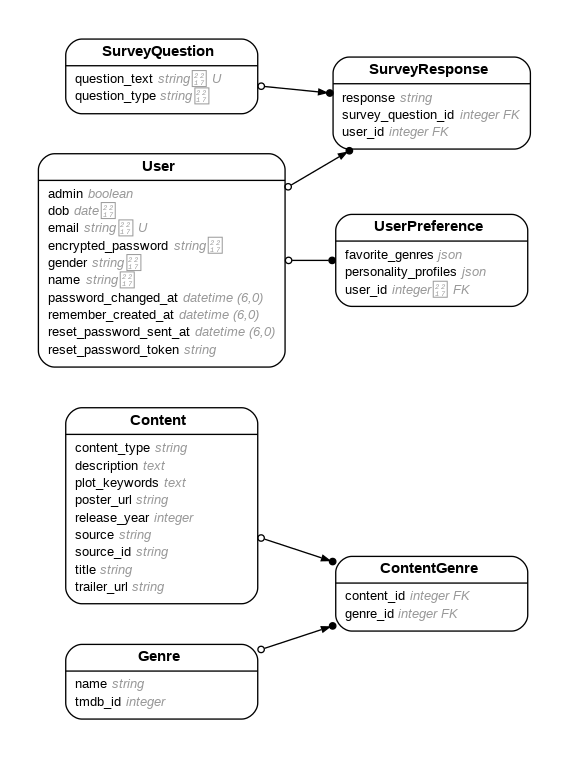
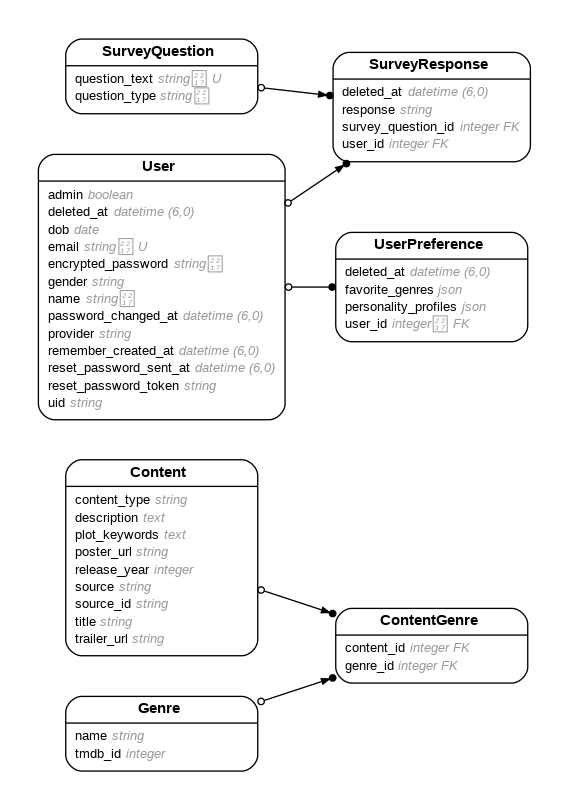
account deletion & restoration

diff --git a/app/javascript/application.js b/app/javascript/application.js
@@ -17,4 +17,19 @@ const application = Application.start()
 application.debug = false
 window.Stimulus = application
 
+
 export { application }
+
+document.addEventListener('turbo:load', addCSRFTokenToForms);
+document.addEventListener('DOMContentLoaded', addCSRFTokenToForms);
+
+function addCSRFTokenToForms() {
+  var token = document.querySelector('meta[name="csrf-token"]').getAttribute('content');
+  document.querySelectorAll('form').forEach(function(form) {
+    var input = document.createElement('input');
+    input.type = 'hidden';
+    input.name = 'authenticity_token';
+    input.value = token;
+    form.appendChild(input);
+  });
+}

diff --git a/app/models/user.rb b/app/models/user.rb
@@ -6,38 +6,46 @@
 #
 #  id                     :integer          not null, primary key
 #  admin                  :boolean
+#  deleted_at             :datetime
 #  dob                    :date
 #  email                  :string           default(""), not null
 #  encrypted_password     :string           default(""), not null
 #  gender                 :string
 #  name                   :string
 #  password_changed_at    :datetime
+#  provider               :string
 #  remember_created_at    :datetime
 #  reset_password_sent_at :datetime
 #  reset_password_token   :string
+#  uid                    :string
 #  created_at             :datetime         not null
 #  updated_at             :datetime         not null
 #
 # Indexes
 #
+#  index_users_on_deleted_at            (deleted_at)
 #  index_users_on_email                 (email) UNIQUE
+#  index_users_on_provider_and_uid      (provider,uid) UNIQUE
 #  index_users_on_reset_password_token  (reset_password_token) UNIQUE
 #
 class User < ApplicationRecord
+  acts_as_paranoid
+
   # Include default devise modules. Others available are:
   # :confirmable, :lockable, :timeoutable, :trackable and :omniauthable
   devise :database_authenticatable, :registerable,
          :recoverable, :rememberable, :validatable,
-         :secure_validatable, :timeoutable
+         :secure_validatable, :timeoutable,
+         :omniauthable, omniauth_providers: [:google_oauth2, :facebook, :twitter, :apple]
 
-  has_one :user_preference, dependent: :nullify
-  has_many  :survey_responses, dependent: :destroy
+  has_one :user_preference, dependent: :destroy
+  has_many :survey_responses, dependent: :destroy
 
   validates :name, presence: true
-  validates :gender, presence: true
-  validates :dob, presence: true
 
   after_create :create_user_preference
+
+  attr_accessor :skip_password_complexity
 
   scope :admins, -> { where(admin: true) }
 
@@ -45,6 +53,14 @@ class User < ApplicationRecord
     admin
   end
 
+  def active_for_authentication?
+    super && !deleted_at
+  end
+
+  def inactive_message
+    !deleted_at ? super : :deleted_account
+  end
+  
   def ensure_user_preference
     create_user_preference if user_preference.nil?
   end
@@ -53,5 +69,10 @@ class User < ApplicationRecord
 
   def create_user_preference
     create_user_preference!
+  end
+
+  def password_required?
+    return false if skip_password_complexity
+    super
   end
 end

diff --git a/app/controllers/users_controller.rb b/app/controllers/users_controller.rb
@@ -1,8 +1,10 @@
 # frozen_string_literal: true
 
 class UsersController < ApplicationController
-  before_action :authenticate_user!
-
+  before_action :authenticate_user!, except: [:restore_account_form, :restore]
+  skip_before_action :verify_authenticity_token, only: [:restore]
+  skip_after_action :verify_authorized, only: [:restore_account_form, :restore]
+  
   def profile
     @user = current_user
     authorize @user, :profile?
@@ -27,9 +29,47 @@ class UsersController < ApplicationController
     end
   end
 
+  def destroy
+    @user = User.find(params[:id])
+    authorize @user
+    if @user == current_user
+      @user.destroy
+      sign_out @user
+      redirect_to new_user_session_path, notice: 'Your account has been successfully deleted. You can restore it within 30 days by clicking "Restore" on the sign-up page.'
+    else
+      redirect_to edit_user_registration_path, alert: 'Failed to delete account. Please try again or contact support.'
+    end
+  end
+
+  def restore_account_form
+    render 'restore_account'
+  end
+
+  def restore
+    @user = User.only_deleted.find_by(email: params[:email])
+    if @user
+      begin
+        ActiveRecord::Base.transaction do
+          @user.restore!
+          UserPreference.only_deleted.where(user_id: @user.id).each(&:restore!)
+          SurveyResponse.only_deleted.where(user_id: @user.id).each(&:restore!)
+        end
+        flash[:notice] = 'Your account has been successfully restored. Please sign in.'
+        redirect_to new_user_session_path
+      rescue => e
+        Rails.logger.error "Failed to restore user account: #{e.message}"
+        flash[:alert] = 'Unable to restore account. Please contact support.'
+        redirect_to new_user_registration_path
+      end
+    else
+      flash[:alert] = 'No deleted account found with this email address.'
+      redirect_to new_user_registration_path
+    end
+  end
+
   private
 
   def user_params
-    params.require(:user).permit(:name, :gender, :dob, :email)
+    params.require(:user).permit(:name, :email, :gender, :dob)
   end
 end

diff --git a/app/controllers/application_controller.rb b/app/controllers/application_controller.rb
@@ -6,6 +6,9 @@ class ApplicationController < ActionController::Base
   # Ensure unauthorized access is handled
   rescue_from Pundit::NotAuthorizedError, with: :user_not_authorized
 
+  protect_from_forgery with: :exception
+  before_action :set_csrf_cookie
+
   private
 
   def user_not_authorized
@@ -19,5 +22,14 @@ class ApplicationController < ActionController::Base
 
   def pages_controller?
     controller_name == 'pages'
+  end
+
+  def set_csrf_cookie
+    cookies['CSRF-TOKEN'] = form_authenticity_token
+  end
+
+  def handle_unverified_request
+    flash[:alert] = "CSRF token verification failed. Please try again."
+    redirect_to root_path
   end
 end

diff --git a/app/models/user_preference.rb b/app/models/user_preference.rb
@@ -5,6 +5,7 @@
 # Table name: user_preferences
 #
 #  id                   :integer          not null, primary key
+#  deleted_at           :datetime
 #  favorite_genres      :json
 #  personality_profiles :json
 #  created_at           :datetime         not null
@@ -13,13 +14,15 @@
 #
 # Indexes
 #
-#  index_user_preferences_on_user_id  (user_id)
+#  index_user_preferences_on_deleted_at  (deleted_at)
+#  index_user_preferences_on_user_id     (user_id)
 #
 # Foreign Keys
 #
 #  user_id  (user_id => users.id)
 #
 class UserPreference < ApplicationRecord
+  acts_as_paranoid
   belongs_to :user, required: true
 
   def personality_profiles

diff --git a/app/models/survey_response.rb b/app/models/survey_response.rb
@@ -5,13 +5,19 @@
 # Table name: survey_responses
 #
 #  id                 :integer          not null, primary key
+#  deleted_at         :datetime
 #  response           :string
 #  created_at         :datetime         not null
 #  updated_at         :datetime         not null
 #  survey_question_id :integer
 #  user_id            :integer
 #
+# Indexes
+#
+#  index_survey_responses_on_deleted_at  (deleted_at)
+#
 class SurveyResponse < ApplicationRecord
+  acts_as_paranoid
   belongs_to :user, required: true
   belongs_to :survey_question, required: true
 end

diff --git a/config/application.rb b/config/application.rb
@@ -32,9 +32,11 @@ module RailsTemplate
       g.helper false
     end
 
-    config.action_controller.default_protect_from_forgery = false
+    # config.action_controller.default_protect_from_forgery = false
 
     # Don't generate system test files.
     config.generators.system_tests = nil
+
+    config.action_controller.allow_forgery_protection = true
   end
 end

diff --git a/db/migrate/20240820233531_add_omniauth_to_users.rb b/db/migrate/20240820233531_add_omniauth_to_users.rb
@@ -1,0 +1,7 @@
+class AddOmniauthToUsers < ActiveRecord::Migration[7.1]
+  def change
+    add_column :users, :provider, :string
+    add_column :users, :uid, :string
+    add_index :users, [:provider, :uid], unique: true
+  end
+end

diff --git a/app/policies/user_policy.rb b/app/policies/user_policy.rb
@@ -26,7 +26,7 @@ class UserPolicy < ApplicationPolicy
   end
 
   def destroy?
-    user.admin?
+    user.admin? || record == user
   end
 
   def profile?

diff --git a/db/migrate/20240821171924_add_deleted_at_to_users.rb b/db/migrate/20240821171924_add_deleted_at_to_users.rb
@@ -1,0 +1,5 @@
+class AddDeletedAtToUsers < ActiveRecord::Migration[7.1]
+  def change
+    add_column :users, :deleted_at, :datetime
+  end
+end

diff --git a/db/migrate/20240821175750_add_index_to_users_deleted_at.rb b/db/migrate/20240821175750_add_index_to_users_deleted_at.rb
@@ -1,0 +1,5 @@
+class AddIndexToUsersDeletedAt < ActiveRecord::Migration[7.1]
+  def change
+    add_index :users, :deleted_at
+  end
+end
